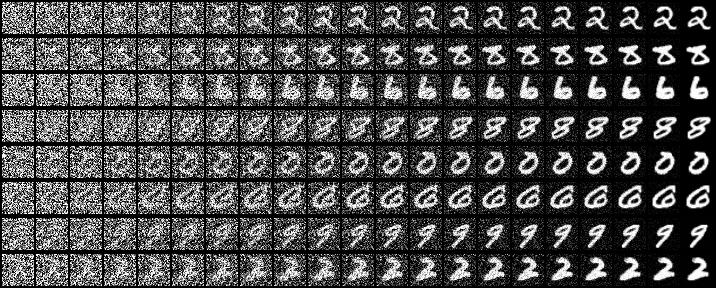
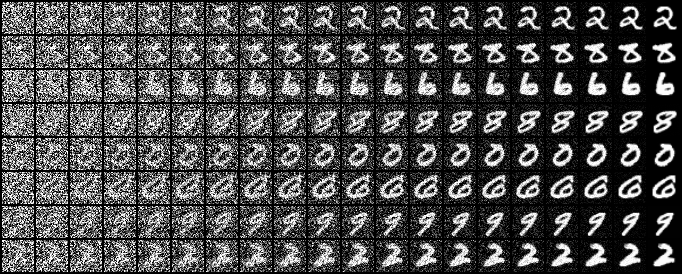
Use `yield` in sample func; add progressive generation

diff --git a/runners/ddpm_runner.py b/runners/ddpm_runner.py
@@ -59,12 +59,15 @@ class DDPMRunner:
         self.logger.info(f'Log directory: {self.log_root}')
 
         # DATA
-        self.dataset = build_dataset(
-            dataset=self.config.data.dataset,
-            dataroot=self.config.data.dataroot,
-            img_size=self.config.data.img_size,
-            split='train',
-        )
+        if args.func in ['train', 'evaluate']:
+            self.dataset = build_dataset(
+                dataset=self.config.data.dataset,
+                dataroot=self.config.data.dataroot,
+                img_size=self.config.data.img_size,
+                split='train',
+            )
+        else:
+            self.dataset = None
         if args.func == 'train':
             self.train_loader = DataLoader(
                 dataset=self.dataset,
@@ -76,7 +79,7 @@ class DDPMRunner:
             )
             self.logger.info(f'Size of dataset: {len(self.dataset)}')
             self.logger.info(f'Each epoch has {len(self.train_loader)} iterations')
-        else:
+        elif args.func == 'evaluate':
             self.logger.info(f'Size of test set: {len(self.dataset)}')
 
         # BUILD MODELS, OPTIMIZERS AND SCHEDULERS
@@ -148,7 +151,7 @@ class DDPMRunner:
         torch.save(state_dicts, save_path)
 
     def load_ckpt(self, ckpt_path: str):
-        self.logger.info(f'Resuming from {ckpt_path}...')
+        self.logger.info(f'Resume from {ckpt_path}')
         self.load_model(ckpt_path)
         ckpt = torch.load(ckpt_path, map_location='cpu')
         self.optimizer.load_state_dict(ckpt['optimizer'])
@@ -204,7 +207,7 @@ class DDPMRunner:
                     self.save_ckpt(os.path.join(self.log_root, 'ckpt', f'epoch{ep}_iter{it}.pt'), epoch=ep)
                 if check_freq(getattr(self.config.train.sample_freq, 'by_step', 0), self.global_step):
                     self.ema.apply_shadow()
-                    self.sample(os.path.join(self.log_root, 'samples', f'epoch{ep}_iter{it}.png'))
+                    self.sample_during_training(os.path.join(self.log_root, 'samples', f'epoch{ep}_iter{it}.png'))
                     self.ema.restore()
                 if self.dist_info.is_dist:
                     dist.barrier()
@@ -296,17 +299,57 @@ class DDPMRunner:
 
         total = math.ceil(num_each_device / cfg.batch_size)
         img_shape = (self.config.data.img_channels, self.config.data.img_size, self.config.data.img_size)
+        freq = self.config.model.total_steps // cfg.n_denoise
         for i in range(total):
             n = min(cfg.batch_size, num_each_device - i * cfg.batch_size)
             init_noise = torch.randn((n, *img_shape), device=self.device)
-            X = self.DiffusionModel.sample(
+            sample_generator = self.DiffusionModel.sample_loop(
                 model=model,
                 init_noise=init_noise,
-                return_freq=cfg.return_freq,
                 with_tqdm=self.dist_info.is_master,
                 desc=f'Sampling({i+1}/{total})',
                 ncols=120,
             )
+            X = []
+            for timestep, out in enumerate(sample_generator):
+                if (self.config.model.total_steps - timestep - 1) % freq == 0:
+                    X.append(out['sample'])
+            X = torch.stack(X, dim=1).clamp(-1, 1)
+            for j, x in enumerate(X):
+                idx = self.dist_info.global_rank * num_each_device + i * cfg.batch_size + j
+                save_image(
+                    tensor=x.cpu(), fp=os.path.join(cfg.save_dir, f'{idx}.png'),
+                    nrow=len(x), normalize=True, value_range=(-1, 1),
+                )
+        self.logger.info(f"Sampled images are saved to {cfg.save_dir}")
+        self.logger.info('End of sampling')
+
+    @torch.no_grad()
+    def sample_progressive(self):
+        cfg = self.config.sample_progressive
+        self.logger.info('Start sampling...')
+        self.logger.info(f'Samples will be saved to {cfg.save_dir}')
+        os.makedirs(cfg.save_dir, exist_ok=True)
+        num_each_device = cfg.n_samples // self.dist_info.world_size
+        model = get_bare_model(self.model).eval()
+
+        total = math.ceil(num_each_device / cfg.batch_size)
+        img_shape = (self.config.data.img_channels, self.config.data.img_size, self.config.data.img_size)
+        freq = self.config.model.total_steps // cfg.n_progressive
+        for i in range(total):
+            n = min(cfg.batch_size, num_each_device - i * cfg.batch_size)
+            init_noise = torch.randn((n, *img_shape), device=self.device)
+            sample_generator = self.DiffusionModel.sample_loop(
+                model=model,
+                init_noise=init_noise,
+                with_tqdm=self.dist_info.is_master,
+                desc=f'Sampling({i+1}/{total})',
+                ncols=120,
+            )
+            X = []
+            for timestep, out in enumerate(sample_generator):
+                if (self.config.model.total_steps - timestep - 1) % freq == 0:
+                    X.append(out['pred_X0'])
             X = torch.stack(X, dim=1).clamp(-1, 1)
             for j, x in enumerate(X):
                 idx = self.dist_info.global_rank * num_each_device + i * cfg.batch_size + j

diff --git a/models/DDPM.py b/models/DDPM.py
@@ -127,7 +127,7 @@ class DDPM:
         mean_t, var_t, log_var_t = self.q_posterior_mean_variance(pred_X0, Xt, t)
         var_t = self._extract(self.model_variance, t)
         log_var_t = self._extract(self.model_log_variance, t)
-        return mean_t, var_t, log_var_t
+        return {'mean': mean_t, 'var': var_t, 'log_var': log_var_t, 'pred_X0': pred_X0}
 
     def _pred_X0_from_eps(self, Xt: Tensor, t: Tensor, eps: Tensor):
         return (self._extract(self.sqrt_recip_alphas_cumprod, t) * Xt -
@@ -143,28 +143,35 @@ class DDPM:
             clip_denoised (bool): whether to clip predicted X0 to range [-1, 1]
         """
         t_batch = torch.full((Xt.shape[0], ), t, device=Xt.device, dtype=torch.long)
-        mean_t, _, log_var_t = self.p_mean_variance(model, Xt, t_batch, clip_denoised)
-        if t == 0:
-            return mean_t
-        return mean_t + torch.exp(0.5 * log_var_t) * torch.randn_like(Xt)
+        out = self.p_mean_variance(model, Xt, t_batch, clip_denoised)
+        sample = out['mean'] if t == 0 else out['mean'] + torch.exp(0.5 * out['log_var']) * torch.randn_like(Xt)
+        return {'sample': sample, 'pred_X0': out['pred_X0']}
+
+    @torch.no_grad()
+    def sample_loop(self,
+                    model: nn.Module,
+                    init_noise: Tensor,
+                    clip_denoised: bool = True,
+                    with_tqdm: bool = False,
+                    **kwargs):
+        img = init_noise
+        kwargs['disable'] = kwargs.get('disable', False) or (not with_tqdm)
+        for t in tqdm.tqdm(range(self.total_steps-1, -1, -1), **kwargs):
+            out = self.p_sample(model, img, t, clip_denoised)
+            img = out['sample']
+            yield out
 
     @torch.no_grad()
     def sample(self,
                model: nn.Module,
                init_noise: Tensor,
                clip_denoised: bool = True,
-               return_freq: int = 0,
                with_tqdm: bool = False,
                **kwargs):
-        img = init_noise
-        imgs = [img.cpu()] if return_freq else []
-
-        kwargs['disable'] = kwargs.get('disable', False) or (not with_tqdm)
-        for t in tqdm.tqdm(range(self.total_steps-1, -1, -1), **kwargs):
-            img = self.p_sample(model, img, t, clip_denoised)
-            if return_freq > 0 and (self.total_steps - t) % return_freq == 0:
-                imgs.append(img.cpu())
-        return imgs if return_freq else img.cpu()
+        sample = None
+        for out in self.sample_loop(model, init_noise, clip_denoised, with_tqdm, **kwargs):
+            sample = out['sample']
+        return sample
 
 
 class DDPMSkip(DDPM):

diff --git a/main.py b/main.py
@@ -13,6 +13,7 @@ if __name__ == '__main__':
                                          'evaluate',            # evaluate
                                          'sample',              # sample images
                                          'sample_denoise',      # sample images with denoising process
+                                         'sample_progressive',  # sample images with predicted X0 over time
                                          'sample_skip',         # sample images with fewer timesteps
                                          'sample_interpolate',  # interpolate between two images
                                          ], help='choose a function')
@@ -42,6 +43,8 @@ if __name__ == '__main__':
         runner.sample()
     elif args.func == 'sample_denoise':
         runner.sample_denoise()
+    elif args.func == 'sample_progressive':
+        runner.sample_progressive()
     elif args.func == 'sample_skip':
         runner.sample_skip()
     elif args.func == 'sample_interpolate':

diff --git a/README.md b/README.md
@@ -57,25 +57,30 @@ Reproduce Diffusion Models with PyTorch.
 <table align="center" width=100%>
   <tr>
     <th align="center" width=10%>Dataset</th>
-    <th align="center" width=27%>Random samples</th>
-    <th align="center" width=63%>Denoising process</th>
+    <th align="center" width=16%>Random samples</th>
+    <th align="center" width=37%>Denoising process</th>
+    <th align="center" width=37%>Progressive generation</th>
   </tr>
   <tr>
     <th align="center">MNIST<br/>32x32</th>
     <td align="center"><img src="./assets/ddpm-mnist-random.png"/></td>
     <td align="center"><img src="./assets/ddpm-mnist-denoise.png"/></td>
+    <td align="center"><img src="./assets/ddpm-mnist-progressive.png"/></td>
   </tr>
   <tr>
     <th align="center">CIFAR-10<br/>32x32</th>
     <td align="center"><img src="./assets/ddpm-cifar10-random.png"/></td>
     <td align="center"><img src="./assets/ddpm-cifar10-denoise.png"/></td>
+    <td align="center"><img src="./assets/ddpm-cifar10-progressive.png"/></td>
   </tr>
   <tr>
     <th align="center">CelebA-HQ<br/>256x256</th>
     <td align="center"><img src="./assets/ddpm-celebahq-random.png"/></td>
     <td align="center"><img src="./assets/ddpm-celebahq-denoise.png"/></td>
+    <td align="center"><img src="./assets/ddpm-celebahq-progressive.png"/></td>
   </tr>
  </table>
+
 
 :warning: Results on CelebA-HQ 256x256 suffer from severe color shifting problem, and I currently have no clue about it.
 
